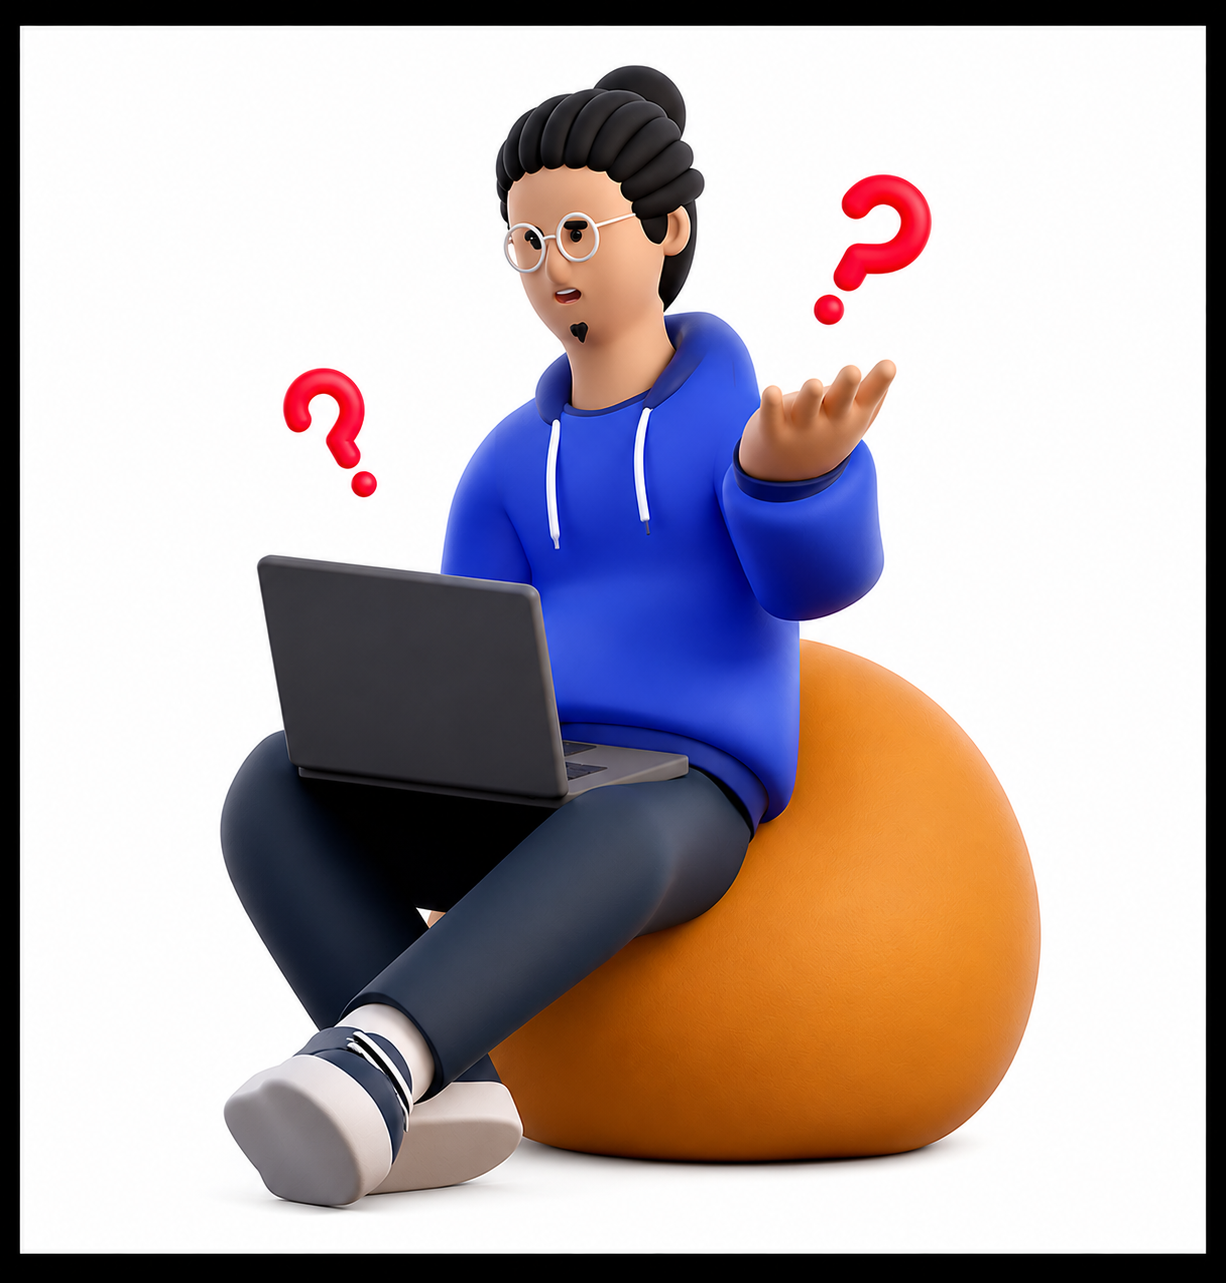
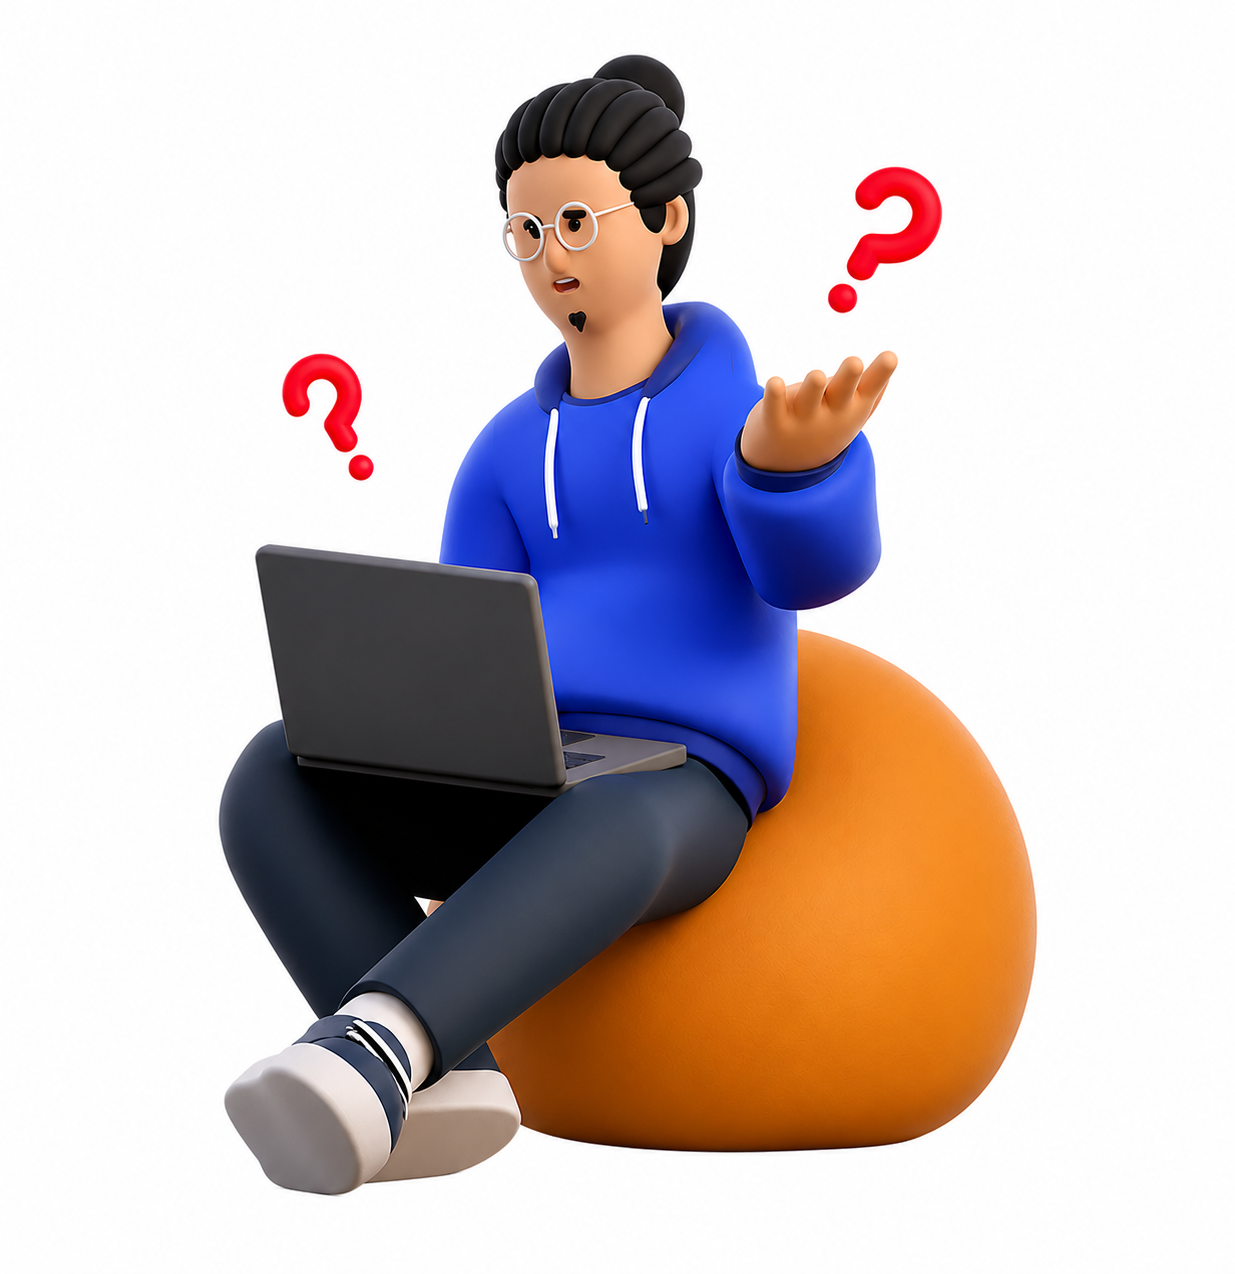
refactor: remove SidebarProvider from error page layout to simplify component structure

diff --git a/components/error-page/error-page.tsx b/components/error-page/error-page.tsx
@@ -6,7 +6,6 @@ import { ArrowLeft } from "lucide-react";
 import { Footer } from "@/components/footer/footer-section";
 import { Navbar, NavbarMobile } from "@/components/navigation/navbar";
 import { Button } from "@/components/ui/button";
-import { SidebarProvider } from "@/components/ui/sidebar";
 
 export const errorPageMetadata: Metadata = {
   title: "Error",
@@ -140,9 +139,7 @@ export function ErrorPageView({
       </div>
 
       <div className="block md:hidden">
-        <SidebarProvider>
           <NavbarMobile showFilterButton={false} />
-        </SidebarProvider>
       </div>
 
       <ErrorPageBody variant={variant} embedded />
